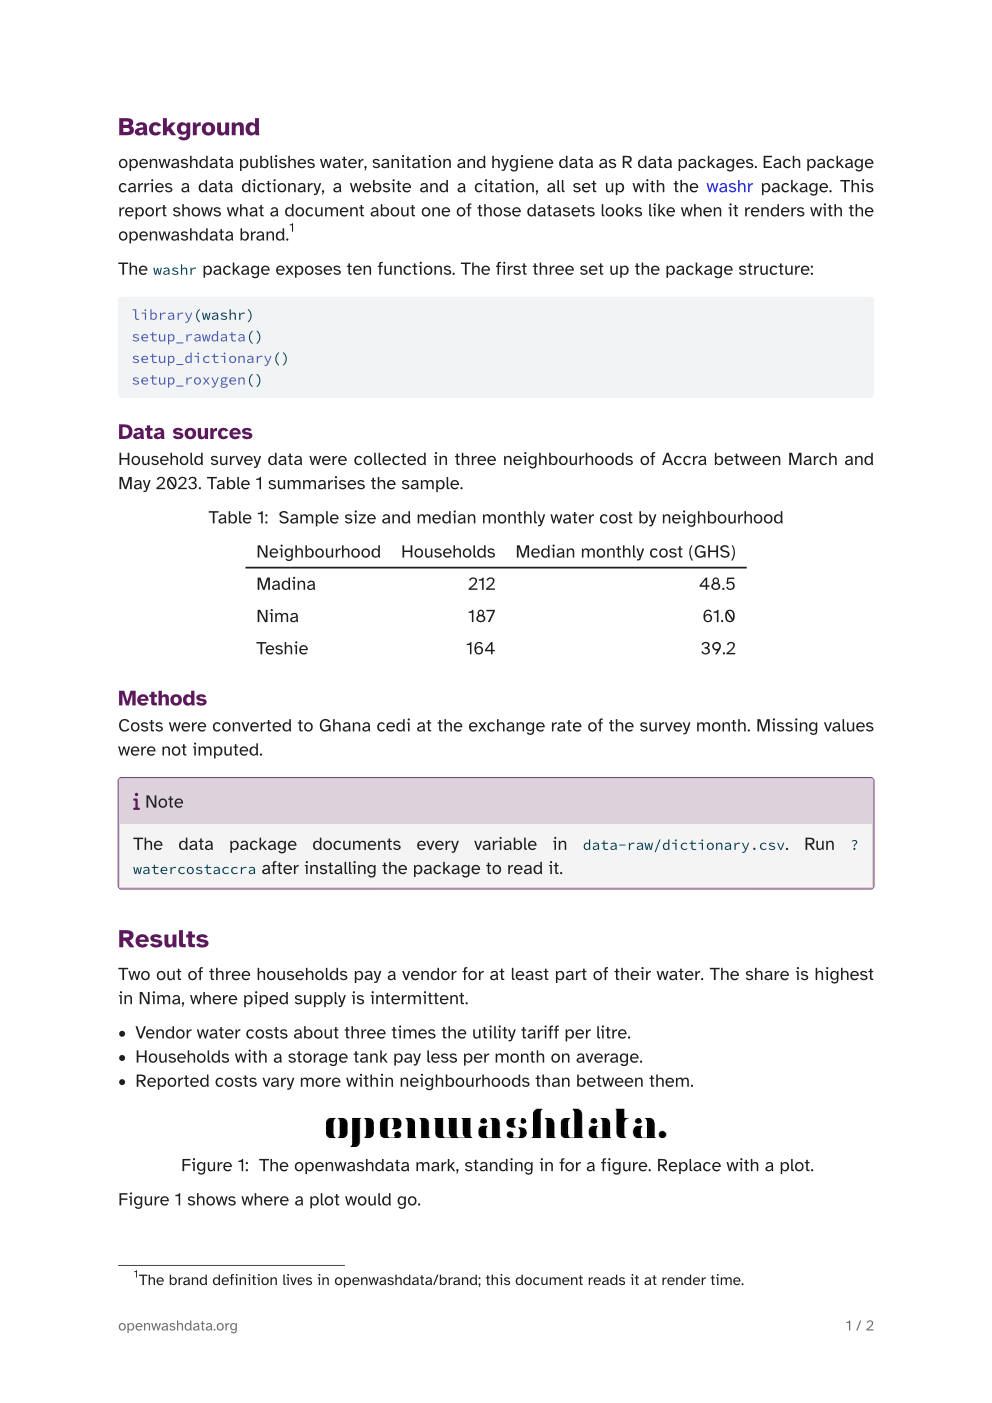
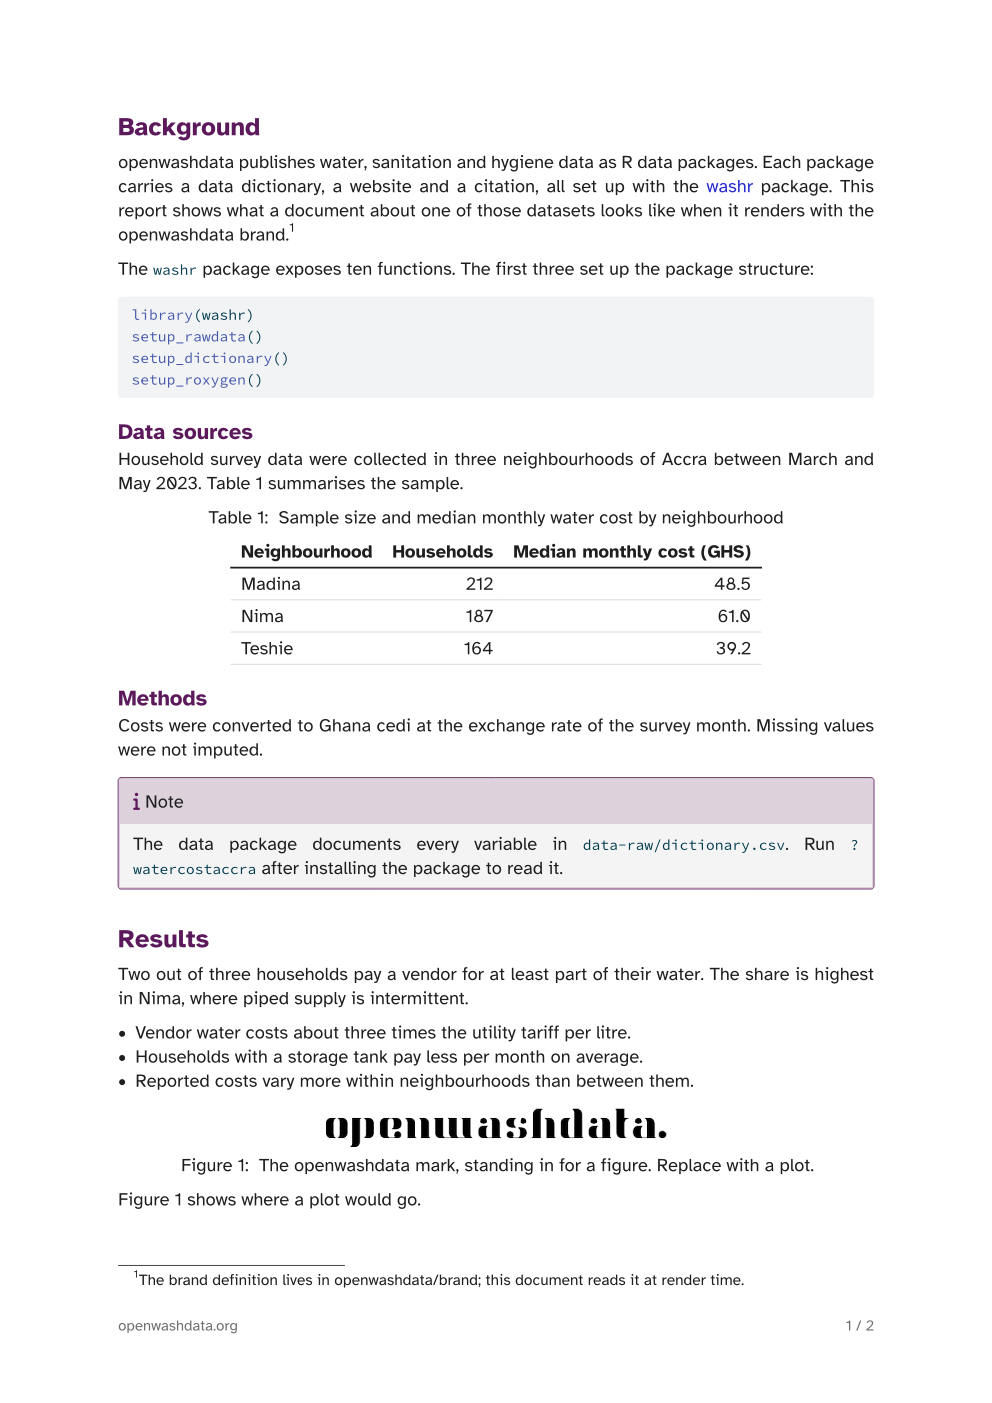
feat(typst): TOC on the cover page, row lines and bold table headers (#15)
With a cover, the outline follows the abstract on the cover page and the
body still starts on page 1; without a cover it opens the body as before.
Tables get bold header cells and a 0.4 pt grey line under every body row,
while the ink rule under the header row from Quarto stays. Version 0.3.0.

Assisted-by: Claude claude-fable-5-1
Claude-Session: https://claude.ai/code/session_01YZGMkJRUtmXRukGv5PLhEx

Changed region(s): [[0.25, 0.3678, 0.75, 0.4904]]

diff --git a/README.md b/README.md
@@ -106,7 +106,9 @@ code.
 
 Neither format adds one on its own. Set `toc: true` in the document
 header (with `toc-depth` and `toc-title` as usual). The Typst format
-computes it at render time. In Word the table of contents is a field:
+computes it at render time and places it on the cover page, after the
+abstract; with `cover: false` it opens the body. In Word the table of
+contents is a field:
 Word asks whether to update fields when the document opens, and answering
 Yes fills it in. Otherwise right-click the heading and choose Update
 Field.

diff --git a/NEWS.md b/NEWS.md
@@ -1,3 +1,13 @@
+# quarto-owd 0.3.0
+
+Typst format only.
+
+- With `toc: true` the table of contents sits on the cover page after the
+  abstract, and the body still starts on page 1. With `cover: false` it
+  stays at the top of the body.
+- Tables: bold header cells, a soft grey line under every body row; the
+  rule under the header row keeps the text colour (#15).
+
 # quarto-owd 0.2.0
 
 - Cover page: the front matter (title, subtitle, authors, date, abstract)
